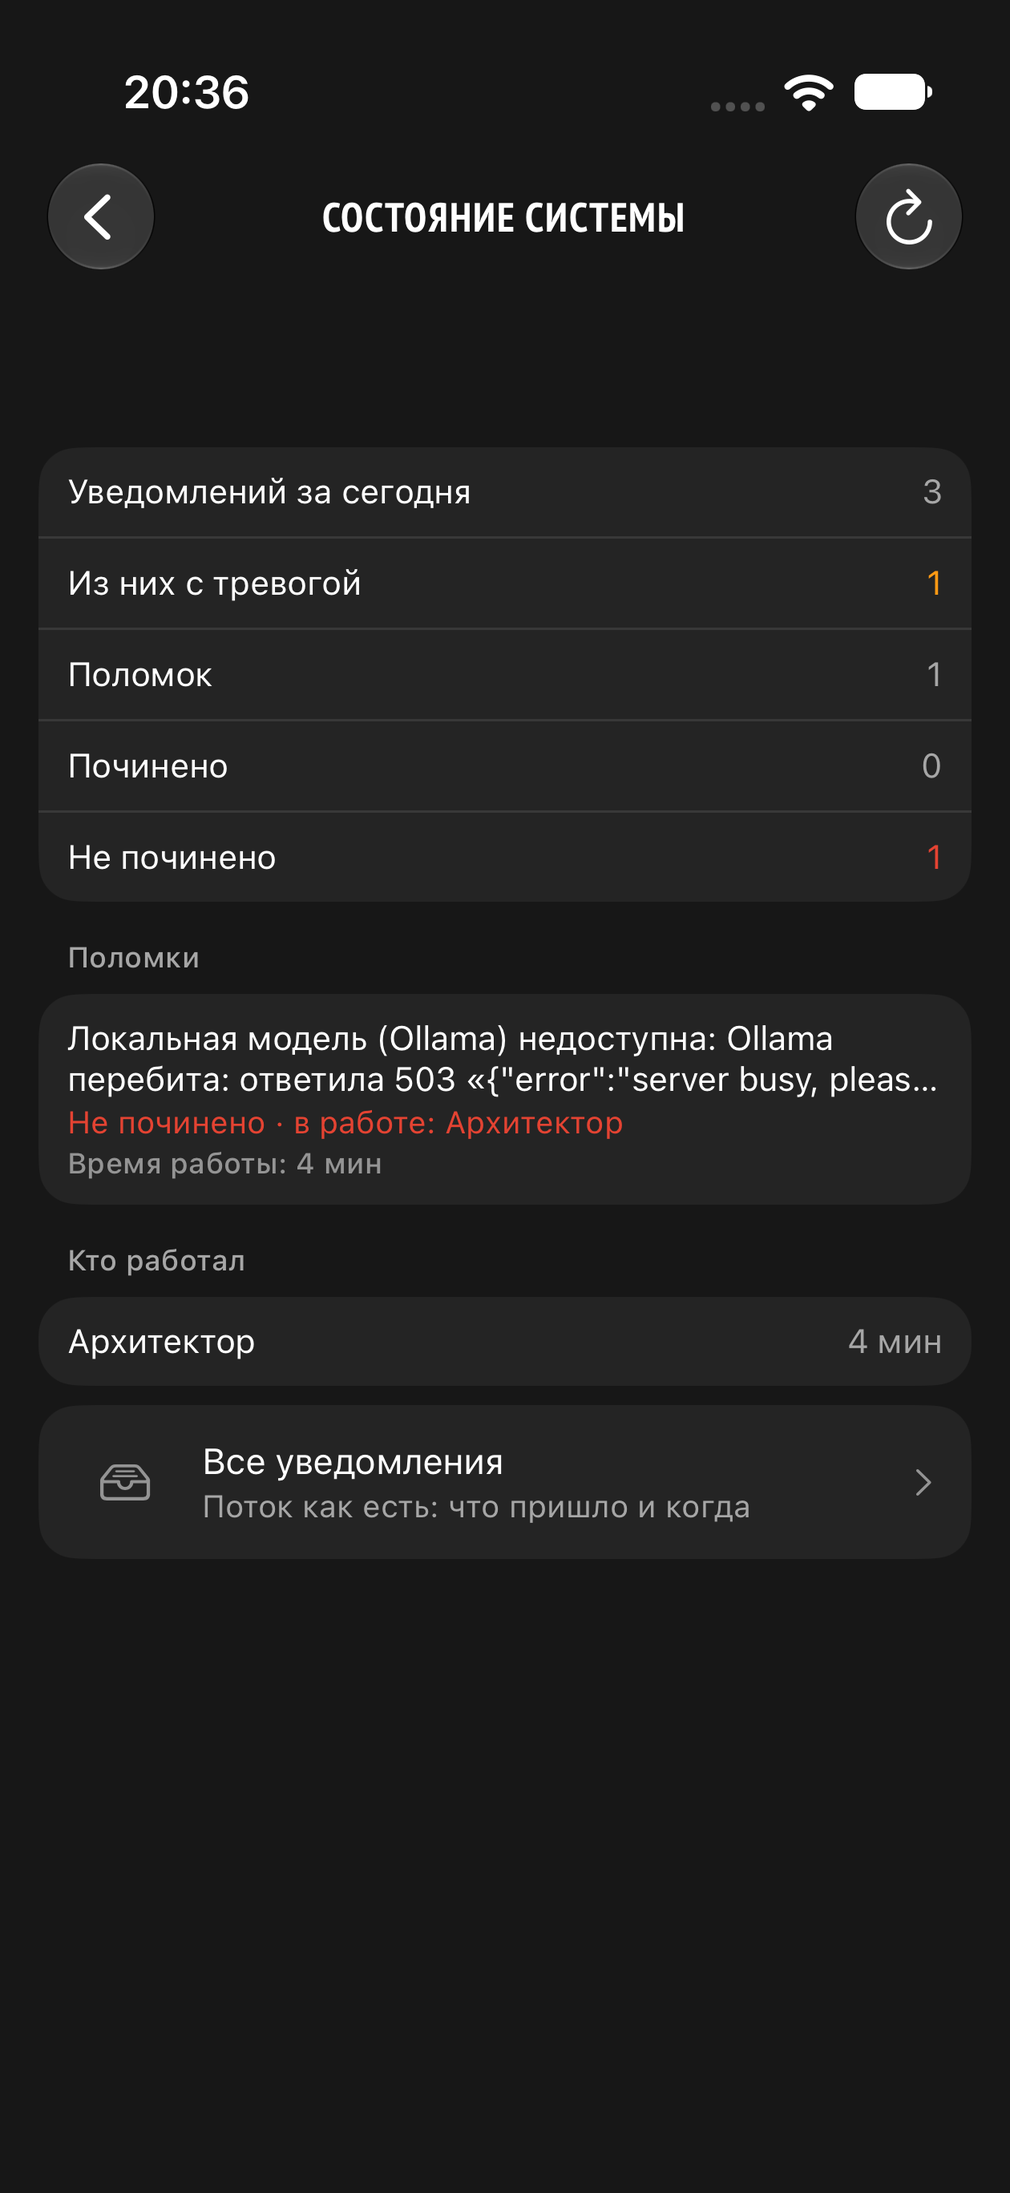
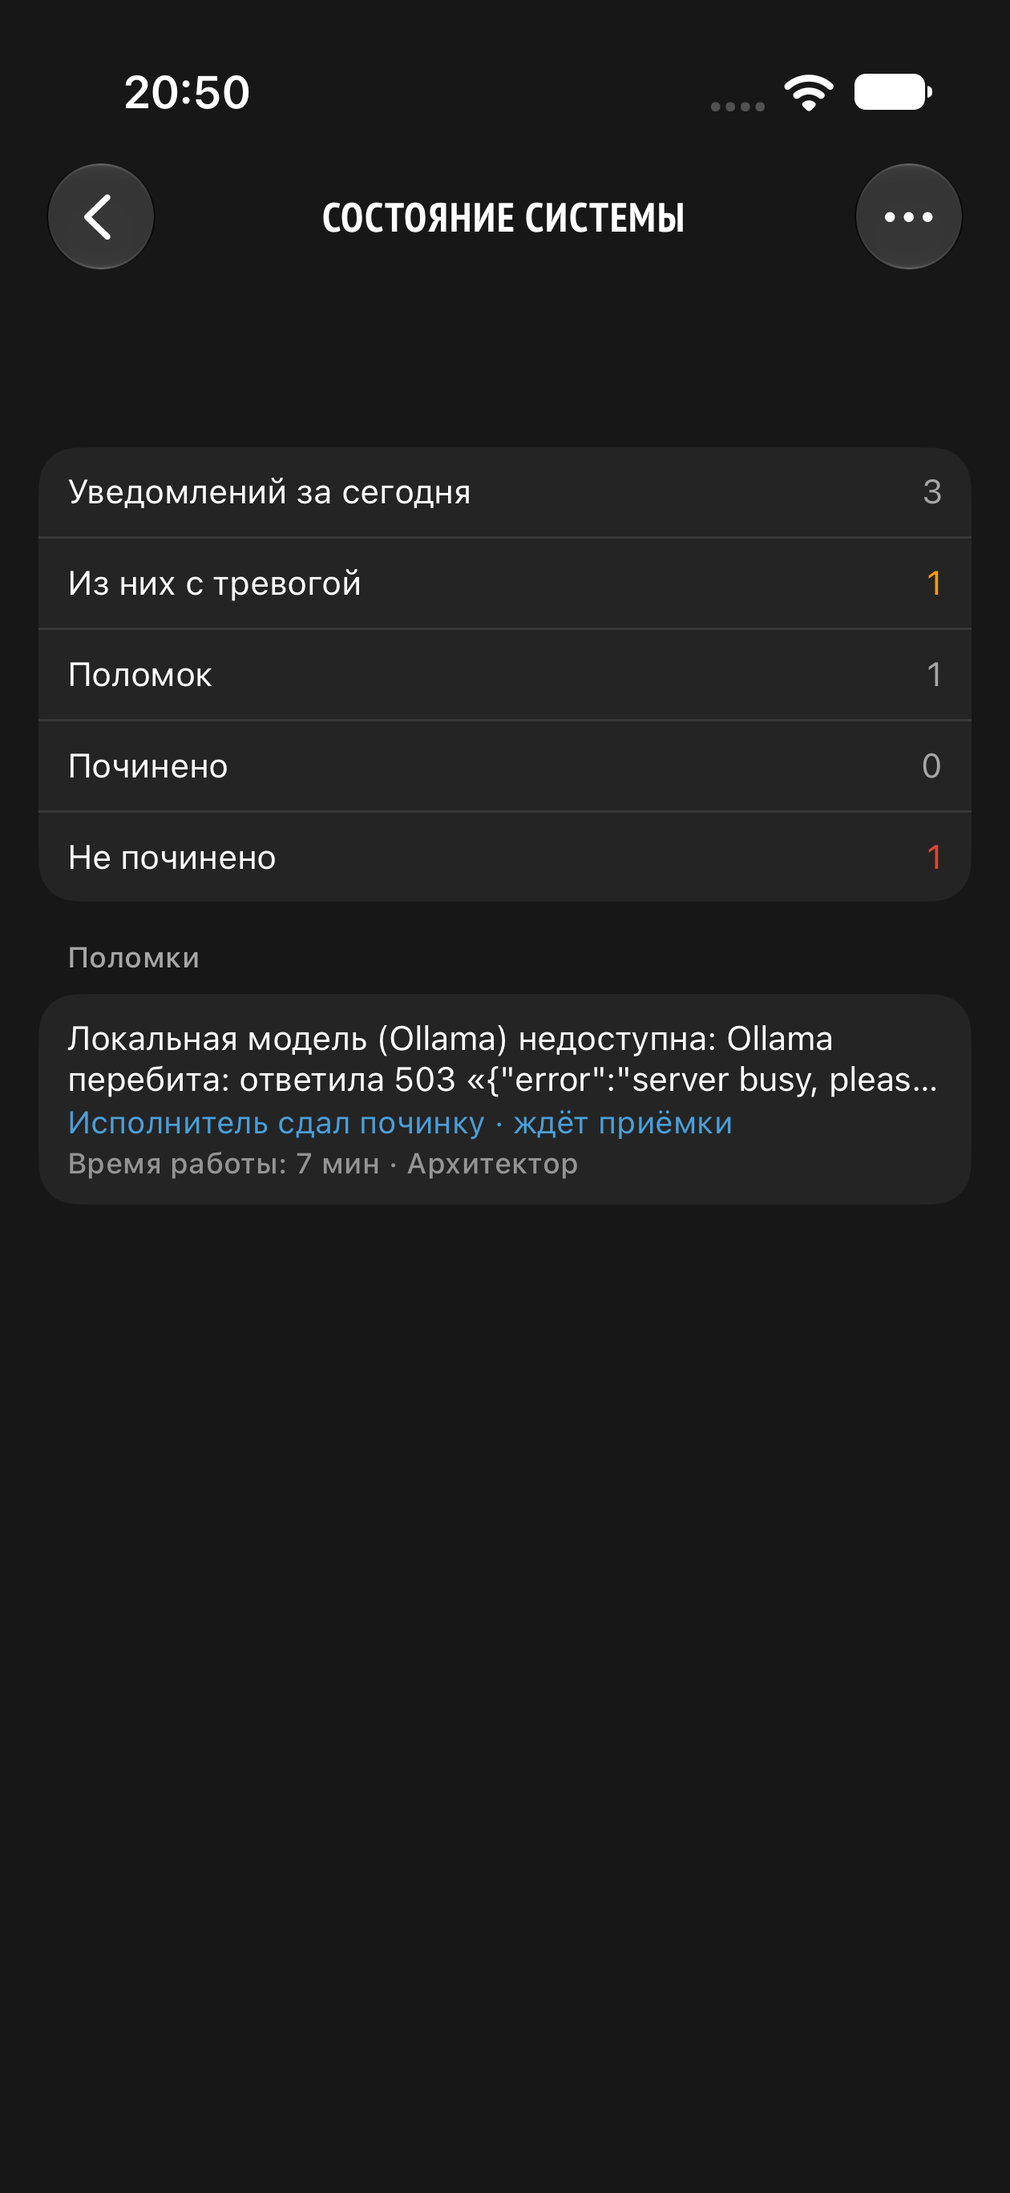
Состояние системы: цвет поломки по состоянию, исполнитель в строке, меню
Замечания владельца 12.10.2026. Строка поломки: никого нет — красный,
в работе — зелёный, сдано и ждёт приёмки — синий, блок — оранжевый.
Время работы и исполнитель — в той же строке, раздел «Кто работал»
убран. Кнопка обновления убрана (обновление — оттягиванием), вместо неё
меню «…» со «Всеми уведомлениями»; строка внизу экрана убрана.

diff --git a/Sources/Features/Directory/NotificationsScreen.swift b/Sources/Features/Directory/NotificationsScreen.swift
@@ -40,6 +40,7 @@ struct NotificationsScreen: View {
     @State private var dayCounts: (total: Int, alarms: Int)?
     @State private var systemStateError: String?
     @State private var isLoadingSystemState = false
+    @State private var showFeed = false
     private let serviceClient = ServiceNotificationsClient()
 
     private let apiClient = APIClient()
@@ -79,40 +80,6 @@ struct NotificationsScreen: View {
                         }
                     }
                 }
-
-                if let workers = systemState?.workers, !workers.isEmpty {
-                    sectionTitle("Кто работал")
-                    TFCard(padding: 0) {
-                        VStack(spacing: 0) {
-                            ForEach(Array(workers.enumerated()), id: \.element.id) { idx, worker in
-                                summaryRow(worker.name, SystemState.duration(worker.seconds))
-                                if idx < workers.count - 1 { TFDivider() }
-                            }
-                        }
-                    }
-                }
-
-                TFCard(padding: 0) {
-                    NavigationLink {
-                        feedPage
-                    } label: {
-                        TFListRow(
-                            icon: "tray.full",
-                            iconStyle: .plain,
-                            title: "Все уведомления",
-                            subtitle: "Поток как есть: что пришло и когда",
-                            trailing: AnyView(
-                                Image(systemName: "chevron.right")
-                                    .font(.system(size: 13))
-                                    .foregroundStyle(Color.tfDim)
-                            ),
-                            titleStyle: .body,
-                            verticalPadding: TFSpacing.md
-                        )
-                    }
-                    .buttonStyle(.plain)
-                    .accessibilityIdentifier("system-state.feed")
-                }
             }
             .padding(.horizontal, TFSpacing.screenHorizontal)
             .padding(.top, TFSpacing.md)
@@ -125,16 +92,22 @@ struct NotificationsScreen: View {
         .tfNativeHeader("Состояние системы")
         .toolbar {
             ToolbarItem(placement: .topBarTrailing) {
-                Button {
-                    Task { await loadSystemState() }
+                // Обновление — оттягиванием вниз, как везде; отдельной кнопки нет.
+                Menu {
+                    Button {
+                        showFeed = true
+                    } label: {
+                        Label("Все уведомления", systemImage: "tray.full")
+                    }
                 } label: {
-                    Image(systemName: "arrow.clockwise")
+                    Image(systemName: "ellipsis")
                 }
-                .disabled(isLoadingSystemState)
-                .accessibilityLabel("Обновить")
+                .accessibilityLabel("Ещё")
+                .accessibilityIdentifier("system-state.menu")
             }
         }
         .navigationDestination(item: $route) { routeDestination($0) }
+        .navigationDestination(isPresented: $showFeed) { feedPage }
         .task { await loadSystemState() }
     }
 
@@ -163,10 +136,9 @@ struct NotificationsScreen: View {
                 Text(incident.title).tfText(.row).foregroundStyle(Color.tfText)
                     .lineLimit(2).multilineTextAlignment(.leading)
                 Text(incident.statusLine).tfText(.action)
-                    .foregroundStyle(incident.fixed ? Color.tfGreen : Color.tfRed)
-                if incident.work_seconds > 0 {
-                    Text("Время работы: \(SystemState.duration(incident.work_seconds))")
-                        .tfText(.meta).foregroundStyle(Color.tfDim)
+                    .foregroundStyle(phaseColor(incident.phase))
+                if let work = incident.workLine {
+                    Text(work).tfText(.meta).foregroundStyle(Color.tfDim)
                 }
             }
             .frame(maxWidth: .infinity, alignment: .leading)
@@ -175,6 +147,15 @@ struct NotificationsScreen: View {
             .contentShape(Rectangle())
         }
         .buttonStyle(TFTapRowStyle())
+    }
+
+    private func phaseColor(_ phase: SystemState.Incident.Phase) -> Color {
+        switch phase {
+        case .fixed, .working: .tfGreen
+        case .waiting: .tfBlue
+        case .blocked: .tfOrange
+        case .idle: .tfRed
+        }
     }
 
     // Склад: всё, что сыпется, как есть — сводки сервисов и лента сервера.

diff --git a/Sources/Core/Models/SystemState.swift b/Sources/Core/Models/SystemState.swift
@@ -28,13 +28,34 @@ struct SystemState: Decodable, Sendable {
         let work_seconds: Int
         let workers: [Worker]
 
+        /// Состояние починки; цвет строки задаёт экран (владелец 12.10.2026):
+        /// никого нет — красный, работают — зелёный, сдано и ждёт — синий,
+        /// исполнитель упёрся в блок — оранжевый.
+        enum Phase { case fixed, blocked, waiting, working, idle }
+
+        var phase: Phase {
+            if fixed { return .fixed }
+            if state == "blocked" { return .blocked }
+            if state == "review" { return .waiting }
+            if assignee_name != nil || state == "in_progress" { return .working }
+            return .idle
+        }
+
         var statusLine: String {
-            if fixed { return "Починено" }
-            // Исполнитель сдал работу, карточка ждёт приёмки — это уже не «ждёт исполнителя».
-            if state == "review" { return "Исполнитель сдал починку · ждёт приёмки" }
-            let names = workers.map(\.name)
-            if let who = assignee_name ?? names.first { return "Не починено · в работе: \(who)" }
-            return "Не починено · ждёт исполнителя"
+            switch phase {
+            case .fixed: "Починено"
+            case .blocked: "Исполнитель не справился · заблокировано"
+            case .waiting: "Исполнитель сдал починку · ждёт приёмки"
+            case .working: "Не починено · в работе" + (assignee_name.map { ": \($0)" } ?? "")
+            case .idle: "Не починено · ждёт исполнителя"
+            }
+        }
+
+        /// «Время работы: 7 мин · Архитектор» — кто работал, в той же строке.
+        var workLine: String? {
+            guard work_seconds > 0 else { return nil }
+            let names = workers.map(\.name).joined(separator: ", ")
+            return "Время работы: \(SystemState.duration(work_seconds))" + (names.isEmpty ? "" : " · \(names)")
         }
     }
 

diff --git a/AGENT-WORK-SCOPES.md b/AGENT-WORK-SCOPES.md
@@ -620,4 +620,4 @@
 | LOCK-WEBHOOK-STATUS-ROW-20261012 | REVIEW | WEBHOOK-STATUS-ROW | Индикация «работают ли вебхуки» строкой в секции «Сервер» на главном экране Настроек | AGENT-WORK-SCOPES.md, Sources/Features/Settings/ServerStatusSection.swift, Sources/Features/Settings/WebhooksAPI.swift, docs/2026-10-12-webhook-status-row.md | Поручение владельца: сторож не нужен, в настройках индикация работают/не работают; пинг, перезапуск и задачи не трогать | Mavis | BUILD SUCCEEDED; временный XCUITest 1/1; кадр секции «Сервер» — строка «Вебхуки: нет подписок», сверено с БД сервера (подписок 0); серверные правки не потребовались |
 
 | LOCK-NAVBAR-CAPS-20261012 | REVIEW | NAVBAR-CAPS | Заголовки всех экранов капсом тем же шрифтом, по центру | AGENT-WORK-SCOPES.md, Sources/DesignSystem/Components/TFNativeHeader.swift, Sources/App/TaskFlowApp.swift, docs/2026-10-12-navbar-caps.md | Поручение владельца: «все заголовки наверху… тем же шрифтом, все заглавные» | Mavis | Сборка, кадры Обзора/Проектов/Чатов |
-| LOCK-SYSTEM-STATE-20261012 | REVIEW | SYSTEM-STATE | Обзор → «Уведомления» становится «Состояние системы»: первым экраном сводка за сегодня, поток уведомлений — внутри по кнопке; служебные карточки починки на Ганте отдельным цветом | AGENT-WORK-SCOPES.md, Sources/Features/Directory/NotificationsScreen.swift, Sources/Features/Directory/OverviewScreen.swift (только название строки), Sources/Features/Directory/RoleLoadScreen.swift (цвет полосы и расшифровка цветов), Sources/Core/Models/RoleLoad.swift, Sources/Core/Models/SystemState.swift (новый), Sources/Features/Directory/Support/DirectoryAPI.swift, Sources/Features/Directory/Support/ServiceNotificationsClient.swift, docs/2026-10-12-system-state.md, docs/2026-10-12-system-state/ | Поручение владельца 12.10.2026: поломки — уведомления, а не проект; раздел — состояние системы | Claude | Сборка; XCUITest на симуляторе iPhone Air 27.0 (временный тест удалён), кадры summary/feed/gantt-service в docs/2026-10-12-system-state/. Сверх названного владельцем: состояние «исполнитель сдал починку · ждёт приёмки» в строке поломки. Расшифровка цветов на Ганте добавлена по слову владельца, кадр gantt-legend.png (снят на iPhone 18 Pro: Xcode сменил симулятор после xcodegen; возвращён iPhone Air 27.0, лишний выключен). Не подтверждено кадром: цвет полосы «идёт сейчас» у служебной карточки |
+| LOCK-SYSTEM-STATE-20261012 | REVIEW | SYSTEM-STATE | Обзор → «Уведомления» становится «Состояние системы»: первым экраном сводка за сегодня, поток уведомлений — внутри по кнопке; служебные карточки починки на Ганте отдельным цветом | AGENT-WORK-SCOPES.md, Sources/Features/Directory/NotificationsScreen.swift, Sources/Features/Directory/OverviewScreen.swift (только название строки), Sources/Features/Directory/RoleLoadScreen.swift (цвет полосы и расшифровка цветов), Sources/Core/Models/RoleLoad.swift, Sources/Core/Models/SystemState.swift (новый), Sources/Features/Directory/Support/DirectoryAPI.swift, Sources/Features/Directory/Support/ServiceNotificationsClient.swift, docs/2026-10-12-system-state.md, docs/2026-10-12-system-state/ | Поручение владельца 12.10.2026: поломки — уведомления, а не проект; раздел — состояние системы | Claude | Сборка; XCUITest на симуляторе iPhone Air 27.0 (временный тест удалён), кадры summary/feed/gantt-service в docs/2026-10-12-system-state/. Сверх названного владельцем: состояние «исполнитель сдал починку · ждёт приёмки» в строке поломки. Расшифровка цветов на Ганте добавлена по слову владельца, кадр gantt-legend.png (снят на iPhone 18 Pro: Xcode сменил симулятор после xcodegen; возвращён iPhone Air 27.0, лишний выключен). Правка по замечаниям владельца того же дня: цвет строки поломки по состоянию (никого — красный, в работе — зелёный, сдано и ждёт — синий, блок — оранжевый), исполнитель и время в одной строке, раздел «Кто работал» и строка «Все уведомления» убраны, вместо кнопки обновления — меню «…» со «Всеми уведомлениями»; кадры summary.png, menu.png. Не подтверждено кадром: цвет полосы «идёт сейчас» у служебной карточки; зелёный, оранжевый и красный цвета строки поломки (живая поломка была в состоянии «ждёт приёмки») |

diff --git a/docs/2026-10-12-system-state.md b/docs/2026-10-12-system-state.md
@@ -35,8 +35,11 @@
 ## Клиент
 
 - Обзор → «Состояние системы» (бывшие «Уведомления»): первым экраном сводка за
-  сегодня, кнопка обновления; поток уведомлений как есть — внутри, строка
-  «Все уведомления». Вложенной страницы «Серверные уведомления» больше нет.
+  сегодня, обновление оттягиванием вниз; поток уведомлений как есть — в меню
+  «…» → «Все уведомления». Вложенной страницы «Серверные уведомления» больше нет.
+- Строка поломки красится по состоянию: никого нет — красный, в работе —
+  зелёный, сдано и ждёт приёмки — синий, исполнитель в блоке — оранжевый.
+  Время работы и исполнитель — в той же строке.
 - На Ганте служебные карточки починки — фиолетовые.
 - Над Гантом — расшифровка цветов полос (кадр `gantt-legend.png`).
 
@@ -46,7 +49,7 @@
   После перезапуска сторож Ollama поднял одну поломку, диспетчер сам отдал её
   Архитектору, тот нашёл причину и сдал карточку на проверку.
 - Клиент: сборка, XCUITest на симуляторе iPhone Air (iOS 27.0), кадры —
-  `2026-10-12-system-state/summary.png`, `feed.png`, `gantt-service.png`.
+  `2026-10-12-system-state/summary.png`, `menu.png`, `feed.png`, `gantt-service.png`.
 
 ## Не сделано
 
